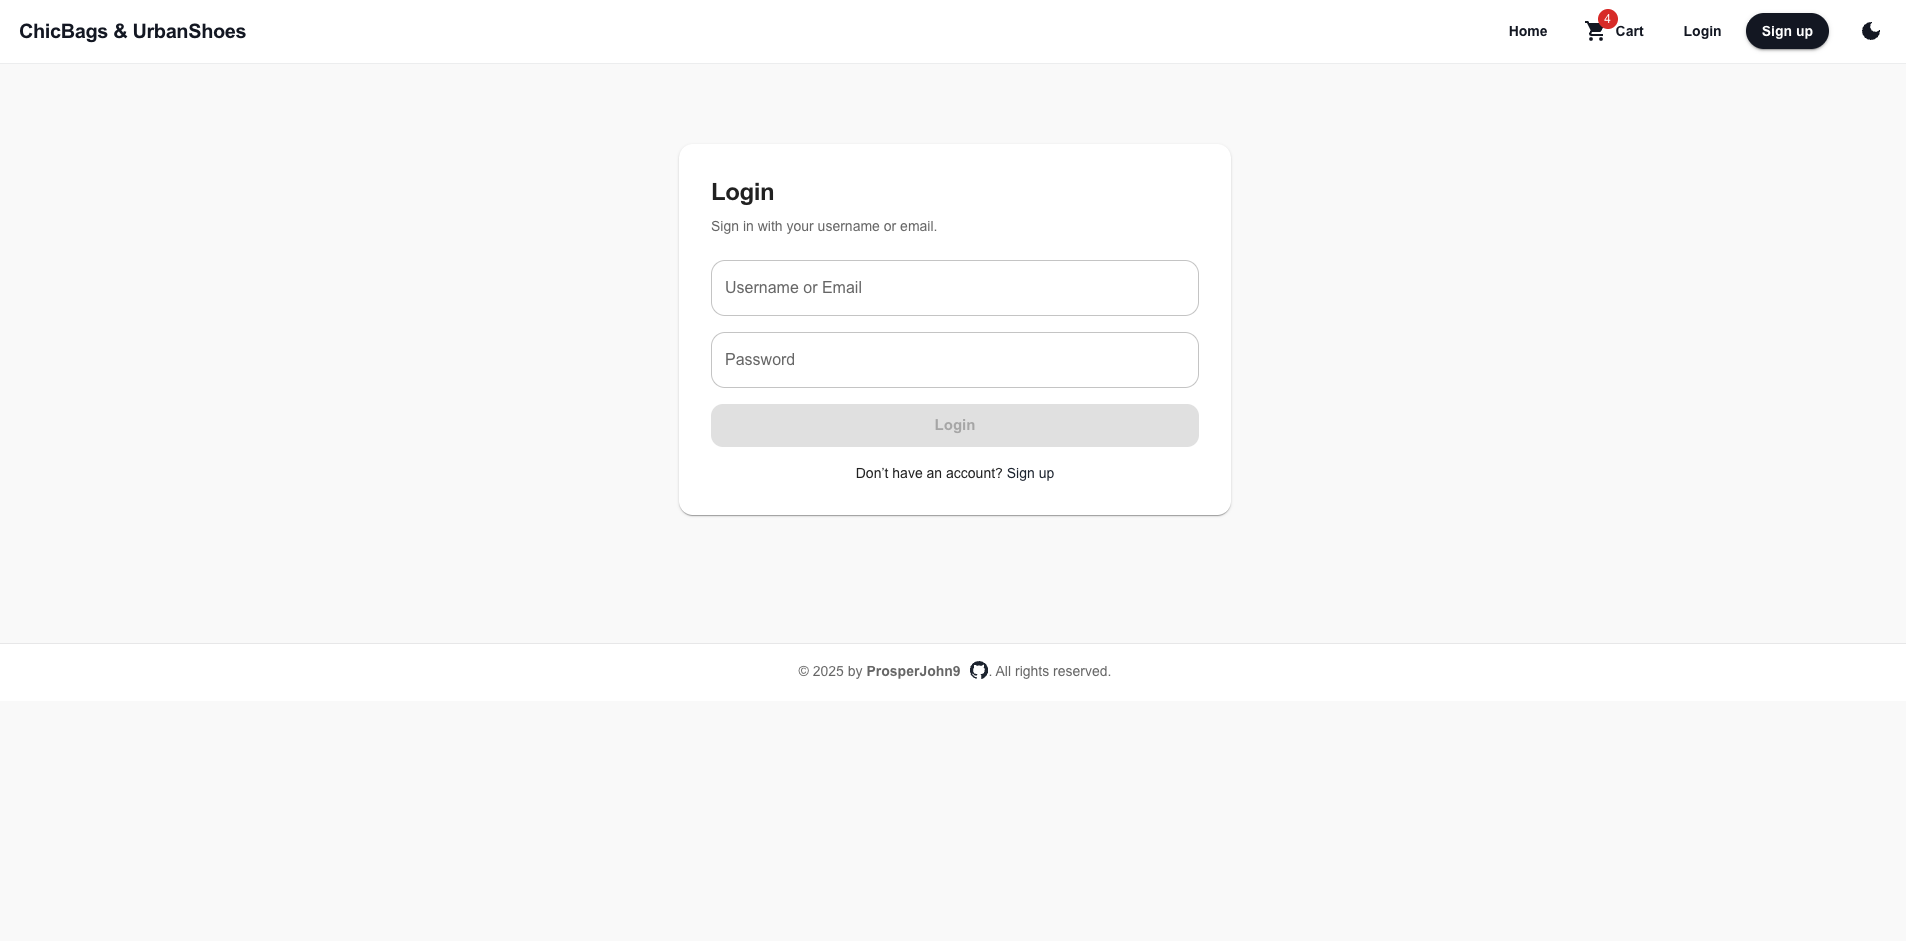
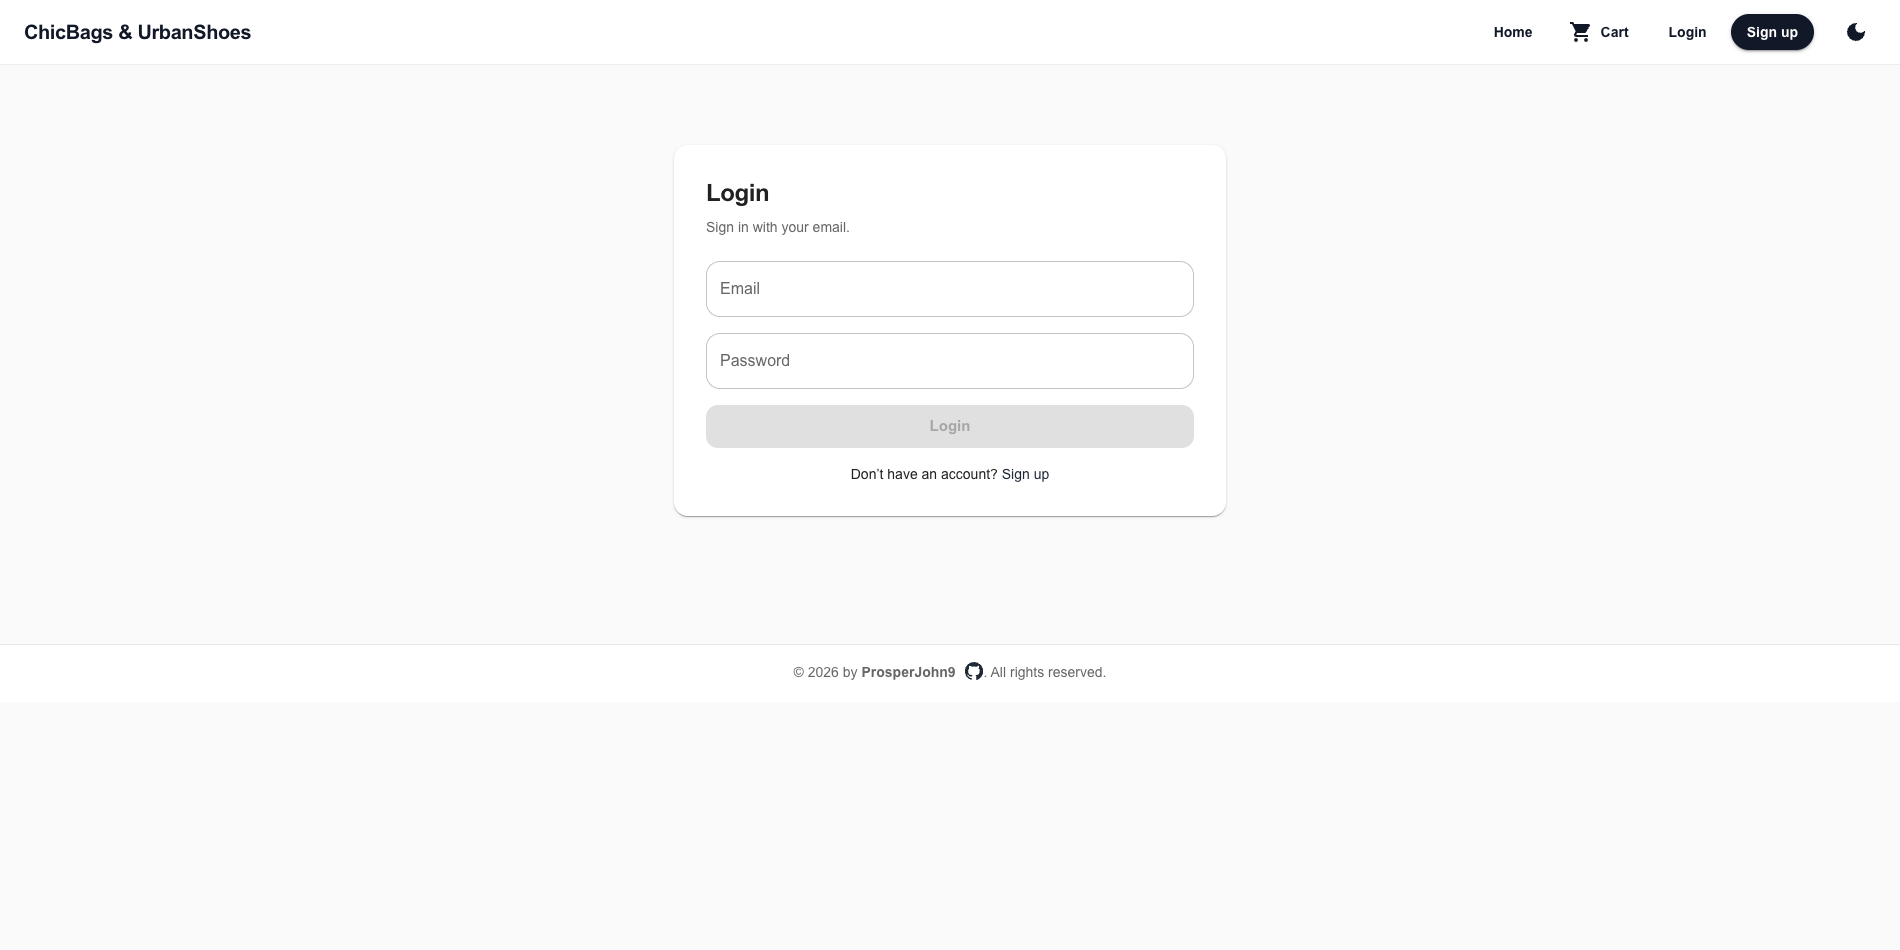
docs: honest README with security section, env run steps, new screenshots
- Features now match the code: server-side accounts and orders, payment
  recorded but not processed, in-memory cart. Removed the brand filter
  and "?brand=" endpoint, which never existed.
- API table lists every endpoint with who may call it.
- Security section: Argon2id, session cookie flags, CSRF, CORS, login
  rate limit, ownership and server-side pricing, what the tests cover,
  and known limitations.
- Run steps use env vars (.env.example), Flyway and the H2 test setup.
- Notes that an old local dev database password is still in git
  history and should be changed wherever it was used.
- Retook the four screenshots whose UI changed (login, sign-up, orders,
  order confirmation) with test data only. The old order confirmation
  showed real personal shipping details.

diff --git a/README.md b/README.md
@@ -1,14 +1,17 @@
 
 # ChicBags & UrbanShoes 👜👠
 
-A **full-stack e-commerce web application** for a fashion store selling bags and shoes.  
-Built with **Spring Boot (Java, PostgreSQL)** on the backend and **React + Material UI** on the frontend.
+A **full-stack e-commerce web application** for a fashion store selling bags and shoes.
+Built with **Spring Boot (Java 21, PostgreSQL)** on the backend and **React + Material UI** on the frontend.
+Accounts, sessions and orders live on the server; the browser never stores a password or an order total it could fake.
 
 ---
 
 ## 🎥 Demo Video
 
 [![Demo Video](https://img.youtube.com/vi/MEGSZVTxtZU/0.jpg)](https://youtu.be/MEGSZVTxtZU)
+
+The video was recorded before the September 2026 security update. The screens and flows are the same, but sign-in now uses your email and runs on the server.
 
 ---
 
@@ -40,30 +43,38 @@ Built with **Spring Boot (Java, PostgreSQL)** on the backend and **React + Mater
 ## 🚀 Tech Stack
 
 ### Backend
-- Java 21
-- Spring Boot 3
-- Spring Data JPA
-- PostgreSQL
-- Maven
-- Python
+- Java 21, Spring Boot 3.5, Maven
+- Spring Security 6.5 (session login, CSRF, CORS)
+- Spring Data JPA (Hibernate 6) + PostgreSQL
+- Flyway (schema migrations and product seed)
+- Bean Validation
+- Tests: JUnit 5, MockMvc, H2 in PostgreSQL mode
 
 ### Frontend
-- React
-- Material UI (MUI)
-- React Router
+- React 19
+- Material UI (MUI) 7
+- React Router 7
 - Axios
 - Context API
+- Tests: Jest + React Testing Library
+
+### Tooling
+- Python script that generated the product seed from the image folders
 
 ---
 
 ## 📂 Project Structure
 
 ```
-Ecommerce_2025/
+ecommerce2025/
 ├── SourceCode/
-│   ├── backend/        # Spring Boot application
-│   ├── frontend/       # React application
-│   └── database/       # SQL schema & data
+│   ├── backend/                          # Spring Boot API
+│   │   ├── .env.example                  # settings to copy into .env
+│   │   └── src/main/resources/db/migration/
+│   │                                     # Flyway: tables + 76 seed products
+│   ├── frontend/                         # React application
+│   └── database/                         # old standalone SQL dump, not used by the app
+├── generate_products_from_images.py      # wrote the product seed (V2 migration)
 └── README.md
 ```
 
@@ -71,45 +82,48 @@ Ecommerce_2025/
 
 ## 🔌 API Endpoints
 
-### Products
-| Method | Endpoint | Description |
-|------|---------|------------|
-| GET | `/api/products` | Get all products |
-| GET | `/api/products/{id}` | Get product by ID |
-| GET | `/api/products?category=BAG` | Filter by category |
-| GET | `/api/products?brand=Hermes` | Filter by brand |
+| Method | Endpoint | Access | Description |
+|--------|----------|--------|-------------|
+| GET | `/api/products` | public | All products |
+| GET | `/api/products?category=BAG` | public | Filter by category (`BAG` or `SHOE`) |
+| GET | `/api/products/{id}` | public | One product |
+| GET | `/api/auth/csrf` | public | CSRF token and the header to send it in |
+| POST | `/api/auth/register` | public, CSRF | Create an account and sign in |
+| POST | `/api/auth/login` | public, CSRF | Sign in with email and password |
+| POST | `/api/auth/logout` | CSRF | Sign out |
+| GET | `/api/auth/me` | signed in | The current user |
+| POST | `/api/orders` | signed in, CSRF | Place an order (product ids and quantities only) |
+| GET | `/api/orders` | signed in | Your orders, newest first |
 
 ---
 
 ## 🛒 Features Checklist
 
-### Core Features
+### Catalogue
 - ✔ Product listing (bags & shoes)
 - ✔ Product details page
 - ✔ Category filtering
-- ✔ Brand filtering
 - ✔ Responsive design
 
 ### Cart
-- ✔ Client-side cart (React Context)
+- ✔ Client-side cart (React Context, kept in memory: a page reload empties it)
 - ✔ Add / remove items
 - ✔ Quantity management
-- ✔ Cart total calculation
+- ✔ Cart total preview (the server computes the real total at checkout)
 
-### Authentication (Frontend)
-- ✔ Sign up page
-- ✔ Login page
-- ✔ Fake auth with localStorage
-- ✔ Username displayed in Navbar
-- ✔ Protected checkout route
+### Accounts
+- ✔ Sign up and log in with email and password
+- ✔ Server-side sessions in an HttpOnly cookie
+- ✔ Log out ends the session on the server
+- ✔ Display name shown in the navbar
+- ✔ Checkout and Orders pages require sign-in
 
 ### Checkout & Orders
-- ✔ Checkout page
-- ✔ Shipping form validation
-- ✔ Payment selection (UI only)
-- ✔ Order confirmation modal
-- ✔ Order history (localStorage)
-- ✔ Orders page per user
+- ✔ Checkout page with shipping form validation (browser and server)
+- ✔ Orders stored in PostgreSQL, priced from the database
+- ✔ Order confirmation with the server's order number and total
+- ✔ Order history per user, read from the API
+- ✔ Payment method recorded (Card or Cash on Delivery). **No payment is processed: this is a demo store.**
 
 ### UI / UX
 - ✔ Material UI theme
@@ -120,12 +134,79 @@ Ecommerce_2025/
 
 ---
 
+## 🔐 Security
+
+What protects what, and where to find it.
+
+**Passwords**
+- Hashed with **Argon2id** at the OWASP minimum (19 MiB memory, 2 iterations, parallelism 1) with a random salt per password. Stored as `{argon2}$argon2id$...` behind Spring's `DelegatingPasswordEncoder`, so the algorithm can be upgraded later. See `config/SecurityConfig.java`.
+- Rule: 12 to 128 characters, no composition rules (NIST SP 800-63B style).
+- Passwords are never logged, echoed in error messages, or stored in the browser. On first load the frontend deletes the account and order data that older versions of this app kept in `localStorage`.
+
+**Sessions and cookies**
+- The session lives on the server. The browser holds only the `JSESSIONID` cookie: `HttpOnly`, `Secure`, `SameSite=Lax`, 30-minute timeout, never put in URLs.
+- Signing in gives the session a new id (blocks session fixation). Logging out destroys the session on the server and expires the cookie.
+
+**CSRF**
+- Every POST, including login and register, must carry a CSRF token in the `X-CSRF-TOKEN` header. The token is kept in the server session and handed out by `GET /api/auth/csrf`, which CORS limits to the frontend's origin. It is replaced at sign-in.
+
+**CORS**
+- Only the origin(s) in `FRONTEND_ORIGIN` may call the API with cookies, and only with GET and POST.
+
+**Login**
+- Unknown email and wrong password get the same `401 Invalid email or password.` For an unknown email the server still hashes a dummy password, so response times match too.
+- Rate limit: 5 failed attempts for one email, or 20 from one IP, within 15 minutes return `429` with `Retry-After`. Unknown emails are counted the same way.
+
+**Orders**
+- The owner of an order is always the signed-in user from the session. `GET /api/orders` returns only the caller's orders.
+- The client sends product ids and quantities only. Prices, line totals and the order total come from the `product` table. A request that includes `price`, `total`, `userId` or any other unknown field is rejected with `400`.
+- Quantities must be 1 to 99; the database enforces this and other rules with CHECK constraints.
+
+**Input and output**
+- Bean Validation on every request body. Error responses name the invalid field but never repeat the value sent.
+- Spring Security's default headers: `X-Content-Type-Options: nosniff`, `X-Frame-Options: DENY`, `Cache-Control: no-store`.
+- Anything not listed as public requires a signed-in user (default deny).
+
+**Configuration**
+- All database and CORS settings come from environment variables. The app refuses to start, with a message naming the variable, if one is missing.
+- SQL logging is off by default. The `dev` profile logs statements only; bound values are never logged.
+
+**Tests** (`SourceCode/backend/src/test`, 56 tests; `SourceCode/frontend/src`, 3 tests) cover register, login, logout, `/me`, Argon2id hashing, identical answers for unknown email and wrong password, session id and CSRF token rotation, CSRF rejection, cookie flags over real HTTP, the rate limit, CORS, security headers, price tampering, order ownership between two users, and the navbar's signed-in states.
+
+### Known limitations
+
+- **Registration reveals whether an email is taken** (`409`). Closing this needs email verification, which this project does not have.
+- **The rate limiter is in memory.** It resets on restart and is not shared between instances. It uses the connection's IP address: behind a reverse proxy, configure trusted forwarded headers first, or every user shares the proxy's IP.
+- **Per-account lockout can be abused**: five wrong passwords block sign-in for that email for 15 minutes.
+- No email verification, password reset or multi-factor authentication.
+- Stock is shown but not checked or reduced when ordering.
+- Local development runs over plain HTTP. The `Secure` cookie works there because browsers treat `localhost` as secure. A real deployment needs HTTPS.
+
+### Old development password in git history
+
+Until September 2026, `application.properties` contained a local development database password. It was removed from the code and the app now reads all credentials from the environment. It is still visible in git history, which was not rewritten. **If any database you run used that password, change it.**
+
+---
+
 ## ▶ How to Run the Project
 
-### 1⃣ Backend (Spring Boot)
+You need Java 21 or newer, Node.js 18 or newer, and PostgreSQL 14 or newer.
+
+### 1⃣ Database
+
+```bash
+createdb ecommdb
+```
+
+On first start, Flyway creates the tables and loads the 76 products. Nothing else to import.
+
+> Upgrading an older local copy? Earlier versions let Hibernate create the `product` table, and Flyway refuses to take over a database like that. Drop and recreate `ecommdb` once (it only held seed products).
+
+### 2⃣ Backend (Spring Boot)
 
 ```bash
 cd SourceCode/backend
+cp .env.example .env      # then fill in DB_PASSWORD and check the other values
 ./mvnw spring-boot:run
 ```
 
@@ -134,9 +215,18 @@ Backend runs on:
 http://localhost:8080
 ```
 
----
+| Variable | Required | Example | Purpose |
+|----------|----------|---------|---------|
+| `DB_URL` | yes | `jdbc:postgresql://localhost:5432/ecommdb` | Database connection |
+| `DB_USERNAME` | yes | `postgres` | Database user |
+| `DB_PASSWORD` | yes | | Database password |
+| `FRONTEND_ORIGIN` | yes | `http://localhost:3000` | Origin(s) allowed to call the API, comma-separated |
+| `COOKIE_SECURE` | no | `true` | Set to `false` only for local HTTP in a browser that drops `Secure` cookies on `localhost` |
+| `SPRING_PROFILES_ACTIVE` | no | `dev` | Logs SQL statements (never the values) |
 
-### 2⃣ Frontend (React)
+Values can be set as real environment variables or in `SourceCode/backend/.env` (gitignored). Real environment variables win.
+
+### 3⃣ Frontend (React)
 
 ```bash
 cd SourceCode/frontend
@@ -149,18 +239,31 @@ Frontend runs on:
 http://localhost:3000
 ```
 
+If it starts on another port, add that origin to `FRONTEND_ORIGIN` and restart the backend.
+
+### 4⃣ Tests
+
+```bash
+cd SourceCode/backend
+./mvnw test
+```
+
+Runs against an in-memory H2 database in PostgreSQL mode: no database or `.env` needed.
+
+```bash
+cd SourceCode/frontend
+CI=true npm test -- --watchAll=false
+```
+
 ---
 
 ## 🗄 Database
 
 - Database: **PostgreSQL**
 - DB Name: `ecommdb`
-- SQL files located in:
-```
-SourceCode/database/
-```
-
-Spring Boot auto-loads `data.sql` on startup.
+- Schema and seed data: Flyway migrations in `SourceCode/backend/src/main/resources/db/migration/`
+  - `V1` product table, `V2` product seed, `V3` users, `V4` orders and order items
+- Hibernate only validates the schema; it never changes it.
 
 ---
 
@@ -172,11 +275,13 @@ This project was developed as part of a teaching exercise to demonstrate:
 - Database integration
 - Modern UI/UX principles
 
+It was later hardened to show secure defaults: server-side authentication, CSRF protection, ownership checks and server-side pricing.
+
 ---
 
 ## 👤 Author
 
-**Prosper Osaigbovo**  
+**Prosper Osaigbovo**
 
 ---
 
